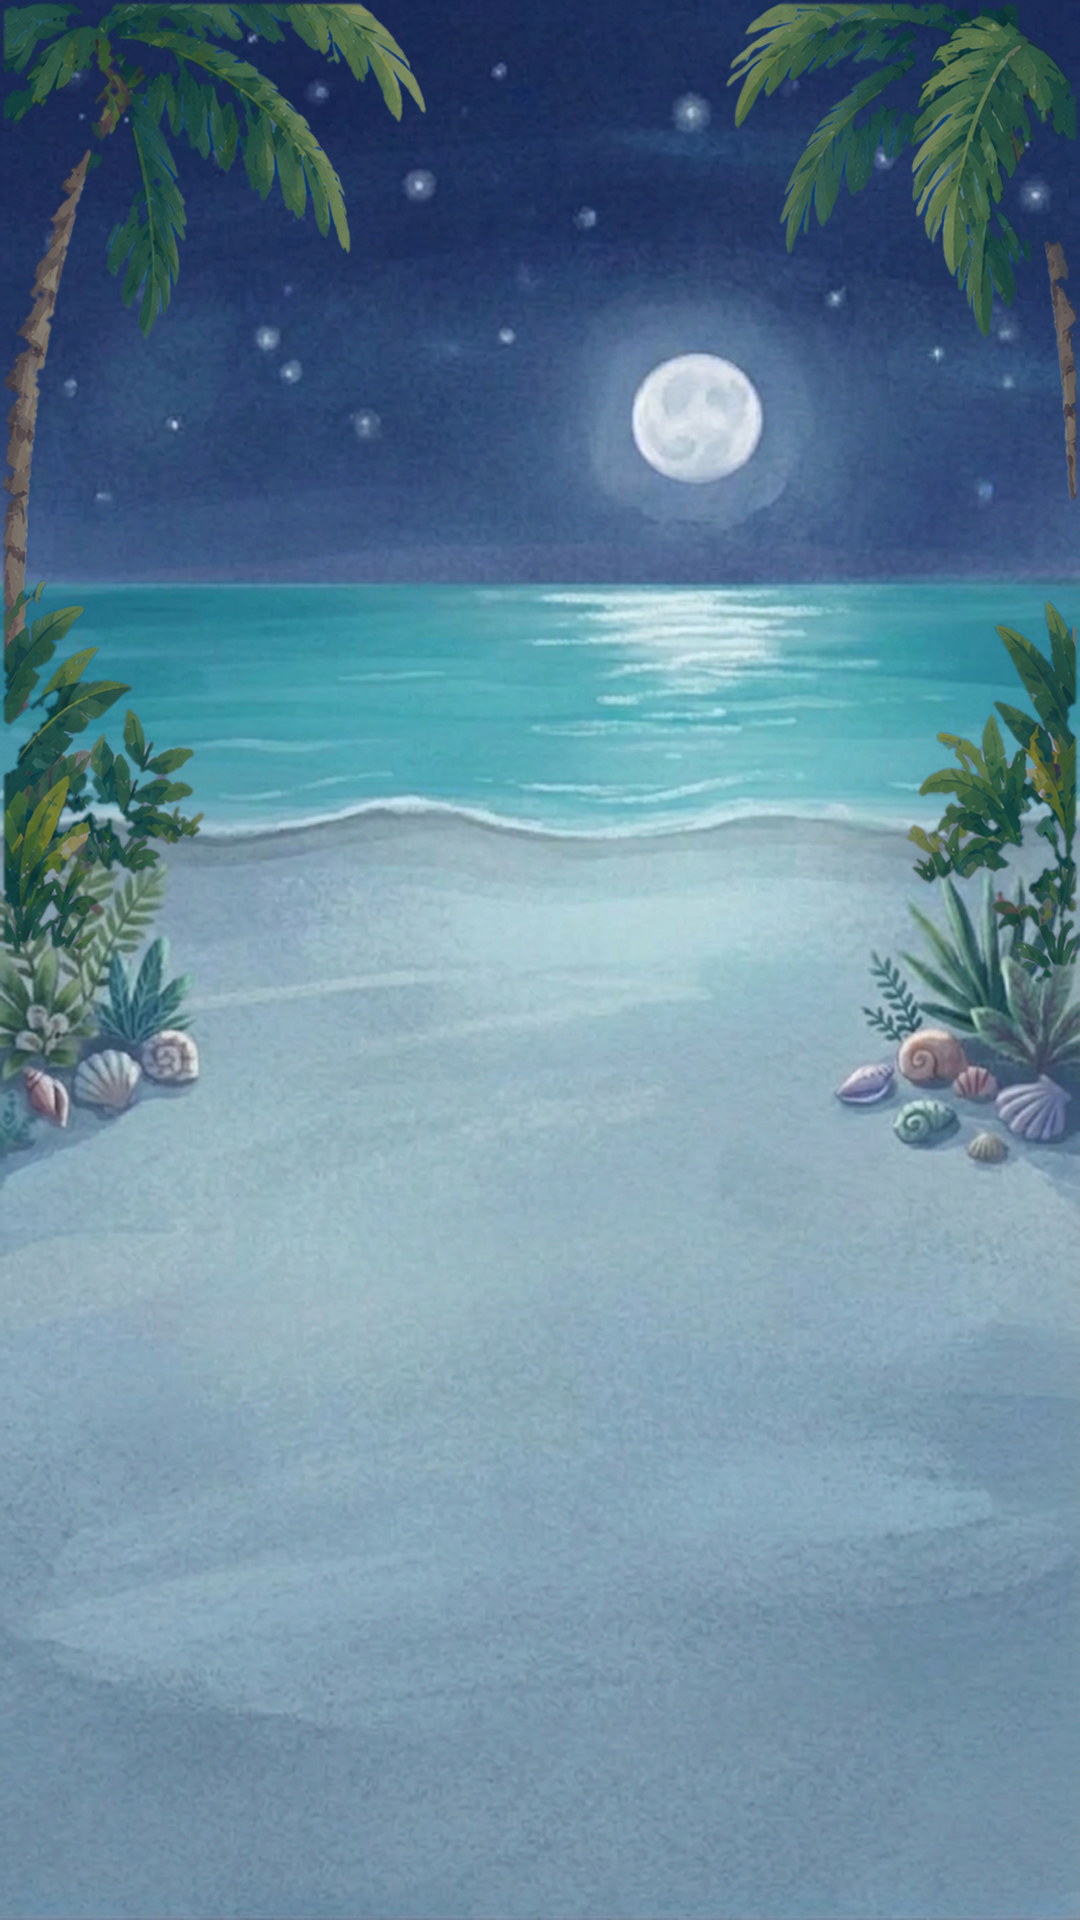
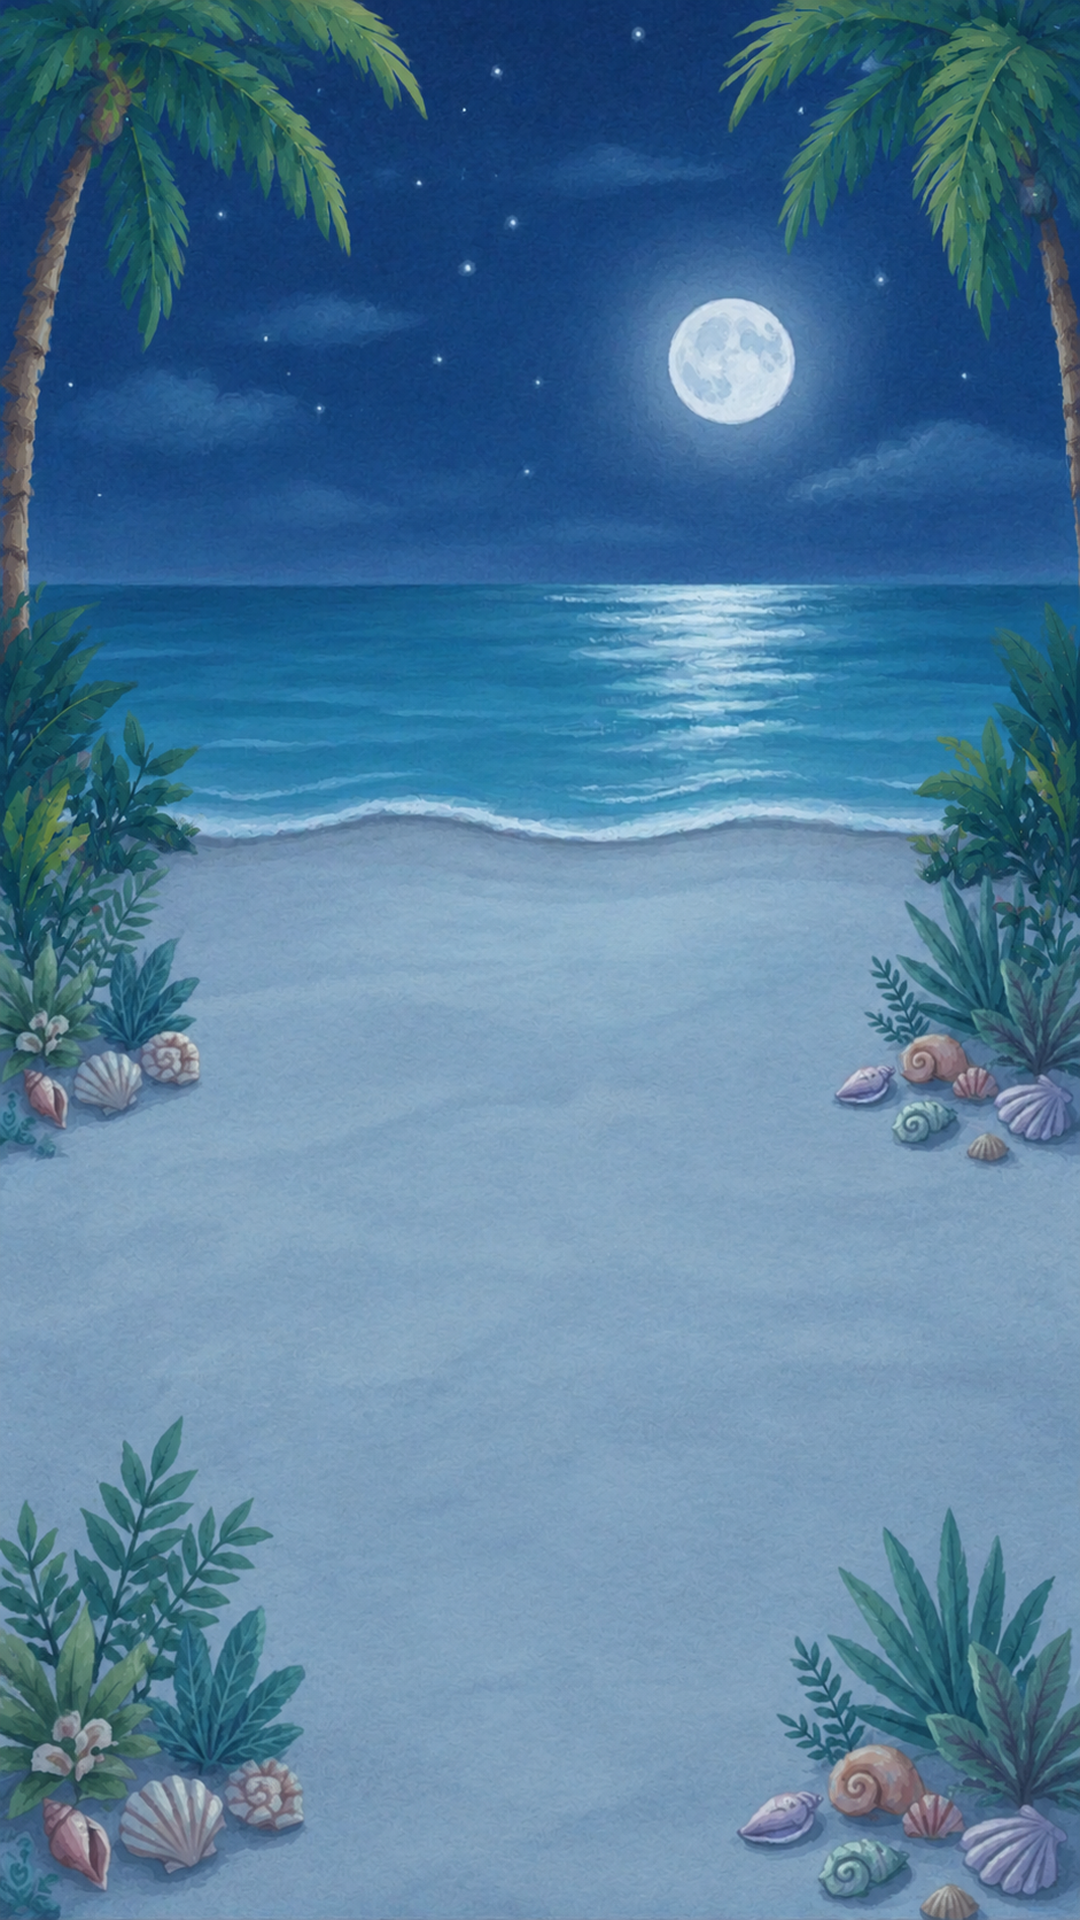
Owner's tick: ChatGPT's night beach as the chapter 2 night background (scaled 941x1672 to 1080x1920); kitchen board and stand kept; report: the five choux board frames for the owner's question

diff --git a/Docs/tools/report_page/index.html b/Docs/tools/report_page/index.html
@@ -76,12 +76,24 @@ h3 small{font-weight:600;color:var(--soft);font-size:13px;margin-left:6px}
 <div class="who p1"><h3>You</h3>
 <p><b>App Store page</b> (Q&amp;A): what we can improve, tick what to do.</p>
 <p><b>Kitchen</b> (Current): the blender glow, and four ideas for the cake and choux step.</p>
-<p><b>Chapter 2 night beach</b> (Current): ChatGPT's night, tick it.</p>
+<p><b>Choux frames</b> (Q&amp;A): the full frame moves the choux; fix or keep.</p>
 <p><b>Say "build"</b> when you want a test build with these. None before your word.</p></div>
-<div class="who p2"><h3>Me</h3><p>26.11.22 and the 15 Stars are waiting for Apple's review; they go on sale by themselves.</p></div>
+<div class="who p2"><h3>Me</h3><p>26.11.22 and the 15 Stars are waiting for Apple's review; they go on sale by themselves.</p><p>ChatGPT's night beach is in the game (your tick), in no build. The kitchen board and stand stay as they are.</p></div>
 </div>
 
 <h2 id="qa"><span class="n">2</span>Q&amp;A</h2>
+<div class="q"><h3>You asked: show me all the frames of choux (15 November)</h3>
+<p style="margin:6px 0">The choux board on the table has 5 frames, one per choux left. The kitchen ovens are shared, so choux has no frames of its own there.</p>
+<figure><img src="choux_frames.jpg" alt="The five choux board frames: empty, one, two, three and four choux with cream and blueberries"><figcaption>All five at the same size and position as in the game. File names in Assets/Images.</figcaption></figure>
+<ul>
+<li>Frames 1 to 3 add one choux at a time in the same spots.</li>
+<li><b>The full frame (4) puts all four in new places.</b> So when a player takes the first choux from a full board, the other three jump.</li>
+</ul>
+<ul class="checks">
+<li><label><input type="checkbox" data-id="qa.chouxf.seen"> Seen, remove this</label></li>
+<li><label><input type="checkbox" data-id="qa.chouxf.fix"> Fix the full frame: keep frame 3's three choux and add the fourth</label></li>
+<li><label><input type="checkbox" data-id="qa.chouxf.keep"> Keep them as they are</label></li>
+</ul></div>
 <div class="q"><h3>You asked: what can we do on the App Store page itself, without marketing, so the game is found and downloaded more? (15 November)</h3>
 <p style="margin:6px 0"><b>How Apple ranks search:</b> text that matches the <b>name, subtitle, keywords and category</b>, and how people react: <b>downloads, ratings and reviews</b>. The description and promotional text do not count for search; they only help someone who opened the page decide.</p>
 <p style="margin:6px 0"><b>Where we stand today:</b> name "Food Truck Cafe"; subtitle "Bake, serve &amp; grow your cafe"; 99 of 100 keyword letters used; category Simulation and Casual; English only; <b>0 written reviews</b>, and the game never asks for a rating; no in-app events; no custom pages; no iPhone Duo pictures.</p>
@@ -111,19 +123,6 @@ Store text, so only with your words; Apple reviews it with the next version.</li
 <li><label><input type="checkbox" data-id="qa.aso.duo"> 5: make iPhone Duo pictures</label></li>
 <li><label><input type="checkbox" data-id="qa.aso.cpp"> 6: make the ice cream custom page</label></li>
 <li><label><input type="checkbox" data-id="qa.aso.lang"> 7: add the UK and Australia English pages</label></li>
-</ul></div>
-<div class="q"><h3>You asked: is the fruit board in the kitchen at 40 degrees?</h3>
-<ul>
-<li><b>No.</b> The board is drawn from almost straight above: the lemon's cut face is a full circle.</li>
-<li><b>The cake stand is the other way,</b> seen from low: the cake's top is less than half as tall as it is wide.</li>
-<li><b>The table look</b> (40 degrees): a round thing is about three quarters as tall as it is wide, like your heart plate.</li>
-<li>So the two don't match each other, nor the table. If either gets a new job (the cake and choux step), the cake or choux drawn on it should match its angle, or the board and stand get redrawn to one angle first.</li>
-</ul>
-<figure><img src="kitchen_angles.jpg" alt="The fruit board seen from above, the cake stand seen from low, and the table's heart plate at 40 degrees"></figure>
-<ul class="checks">
-<li><label><input type="checkbox" data-id="qa.kangle.40"> Redraw both at the table's 40 degrees</label></li>
-<li><label><input type="checkbox" data-id="qa.kangle.stand"> Redraw the board to match the cake stand</label></li>
-<li><label><input type="checkbox" data-id="qa.kangle.keep"> Keep them as they are</label></li>
 </ul></div>
 <div class="q"><h3>You asked: does the shop panel scroll by dragging, or only with the arrow buttons?</h3>
 <ul><li>Both. A finger drag scrolls the cards up and down; the arrow buttons do the same in steps.</li></ul></div>
@@ -172,19 +171,6 @@ Store text, so only with your words; Apple reviews it with the next version.</li
 <li><label><input type="checkbox" data-id="cur.ksteps.c"> C</label></li>
 <li><label><input type="checkbox" data-id="cur.ksteps.d"> D</label></li>
 <li><label><input type="checkbox" data-id="cur.ksteps.more"> More ideas, I will say which way</label></li>
-</ul>
-</div>
-
-<div class="card">
-<p style="margin-top:0"><b>Chapter 2 beach at night, to match the new day, 15 November.</b> The new day is in the game (your tick); this night is not yet.</p>
-<figure><img src="beach_night.jpg" alt="The old night beach, the new day beach, and ChatGPT's new night beach"><figcaption>Left: the night in the game now. Middle: the new day, in the game. Right: ChatGPT's new night.</figcaption></figure>
-<ul>
-<li>The night fades in over the day at dusk, so its palms, plants and shells must sit where the day's do. ChatGPT's night keeps them in place, with the old night's moon, stars, moonlit path and blue sand.</li>
-<li>Until you tick, the old night stays; at dusk its palms would not line up with the new day's.</li>
-</ul>
-<ul class="checks">
-<li><label><input type="checkbox" data-id="cur.beachnight.use"> Use it</label></li>
-<li><label><input type="checkbox" data-id="cur.beachnight.redo"> Redo it, I will say what</label></li>
 </ul>
 </div>
 
